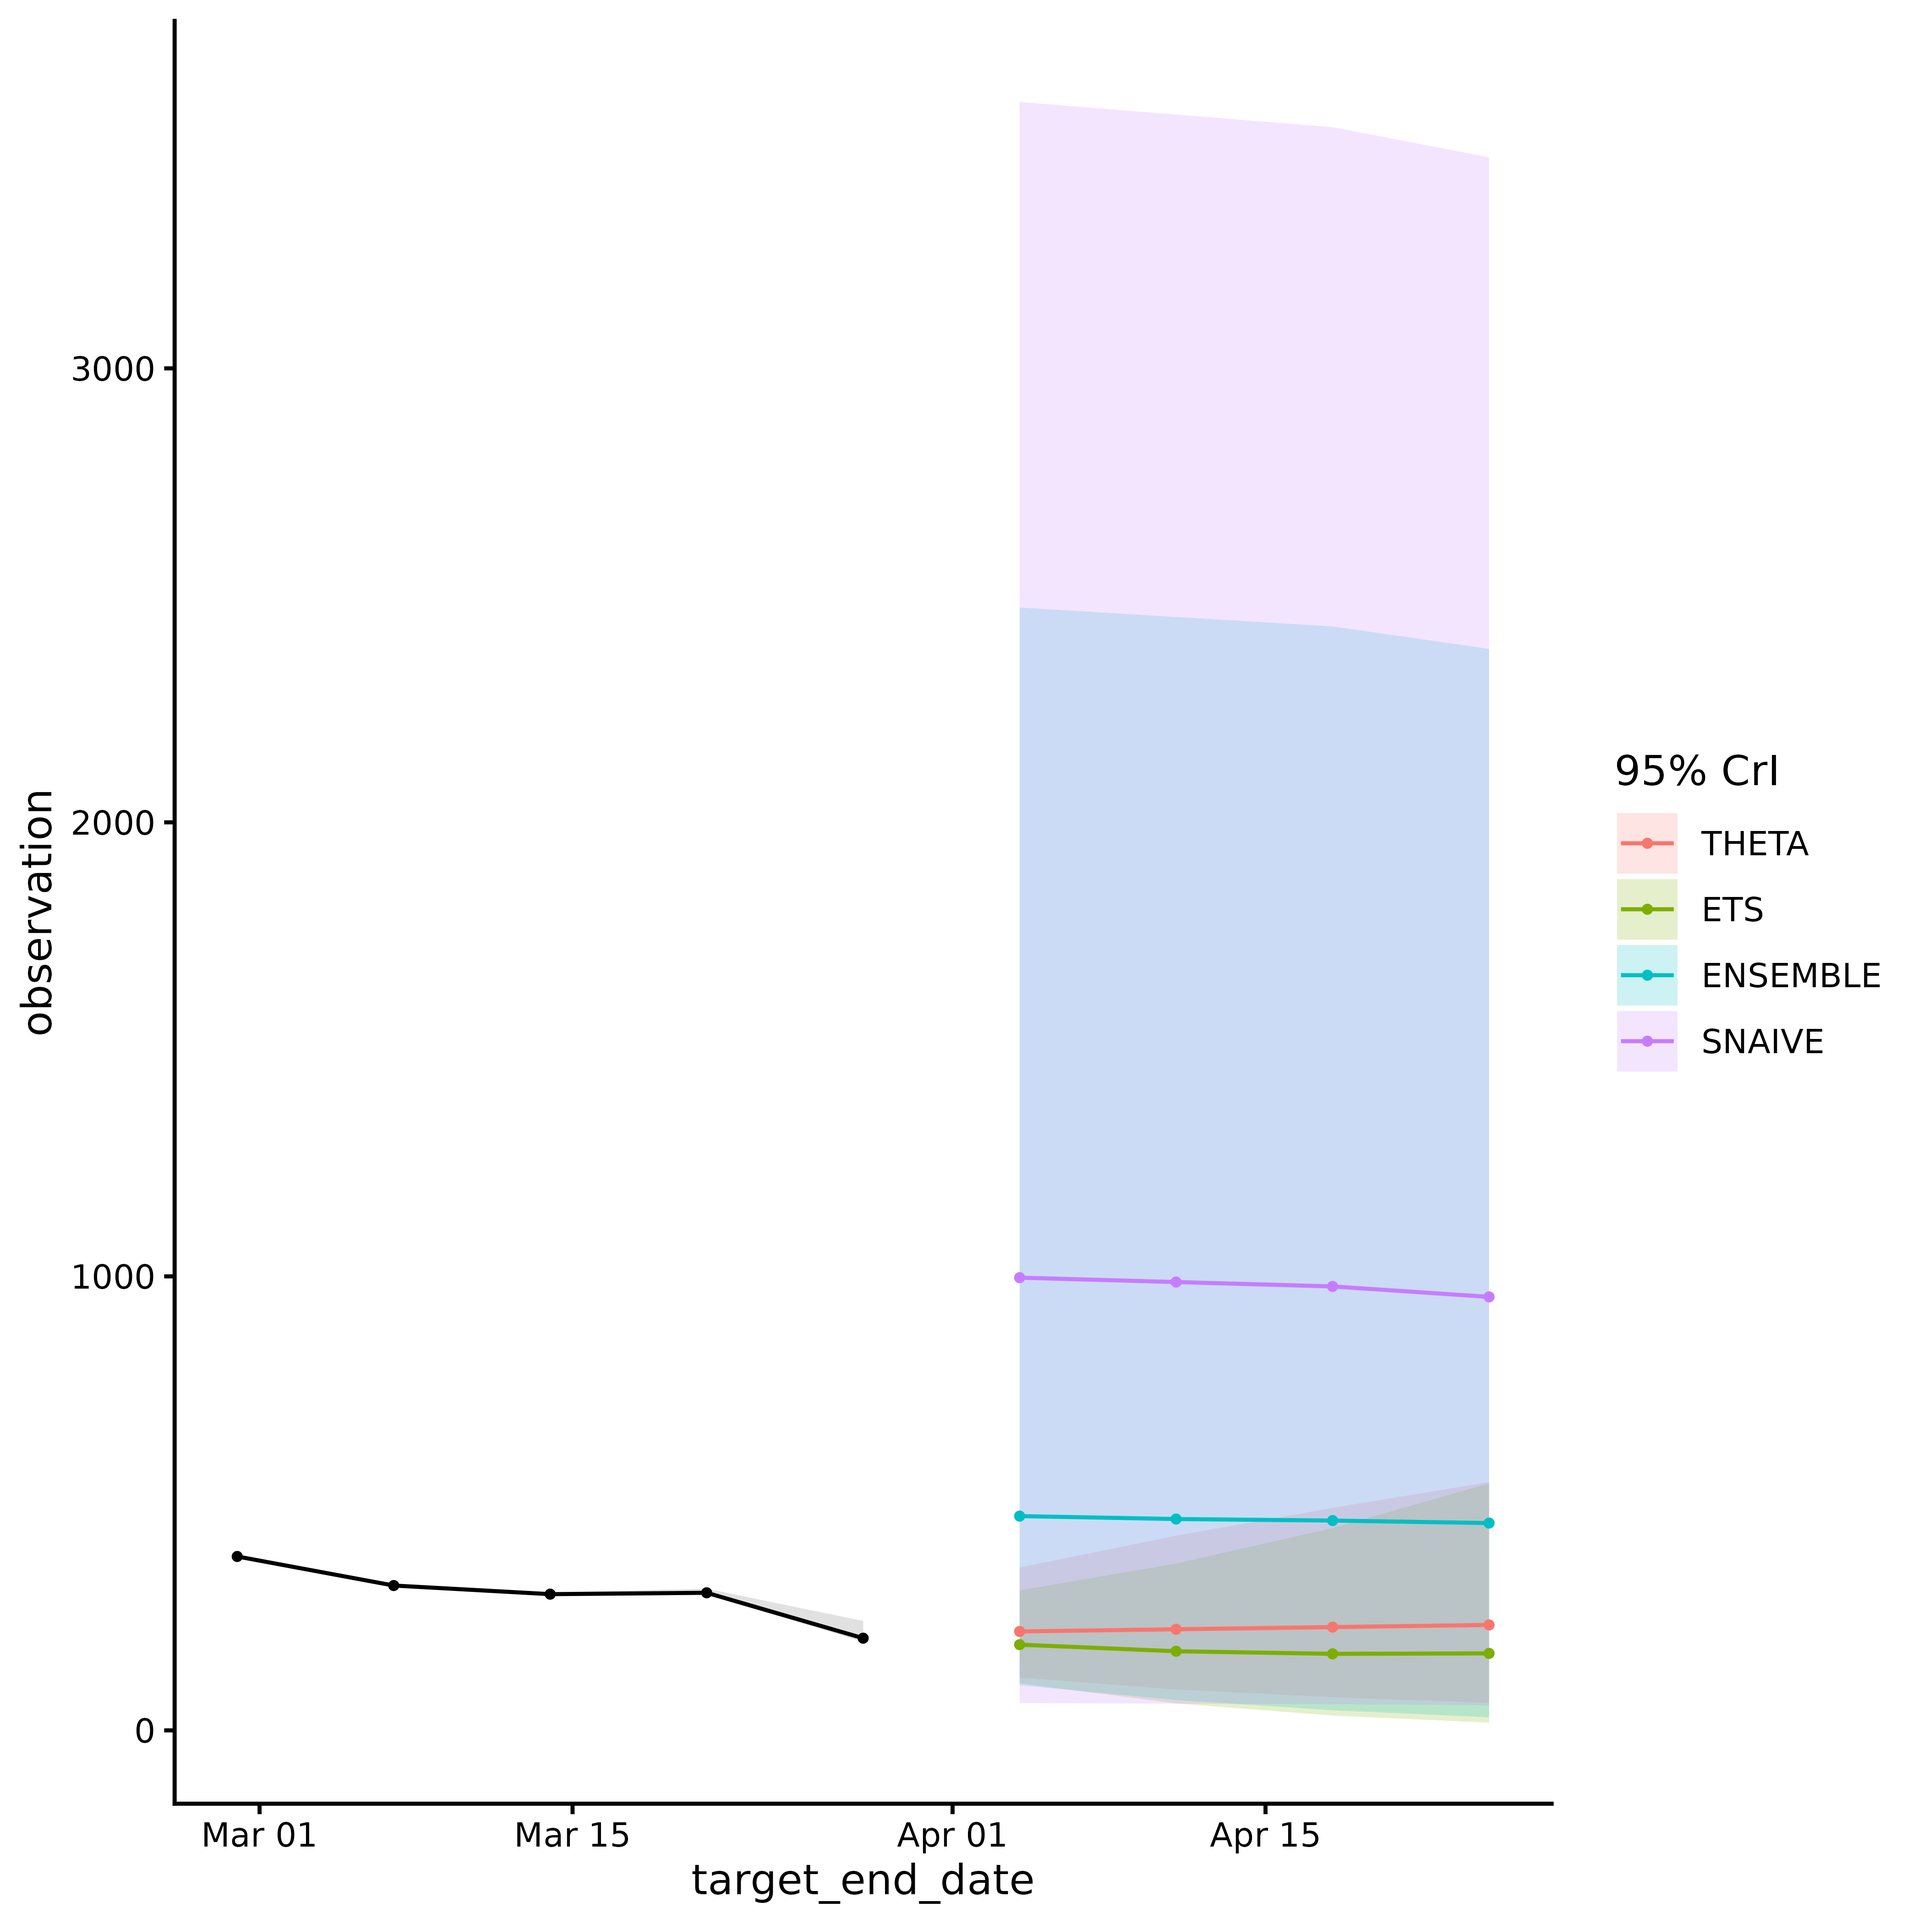
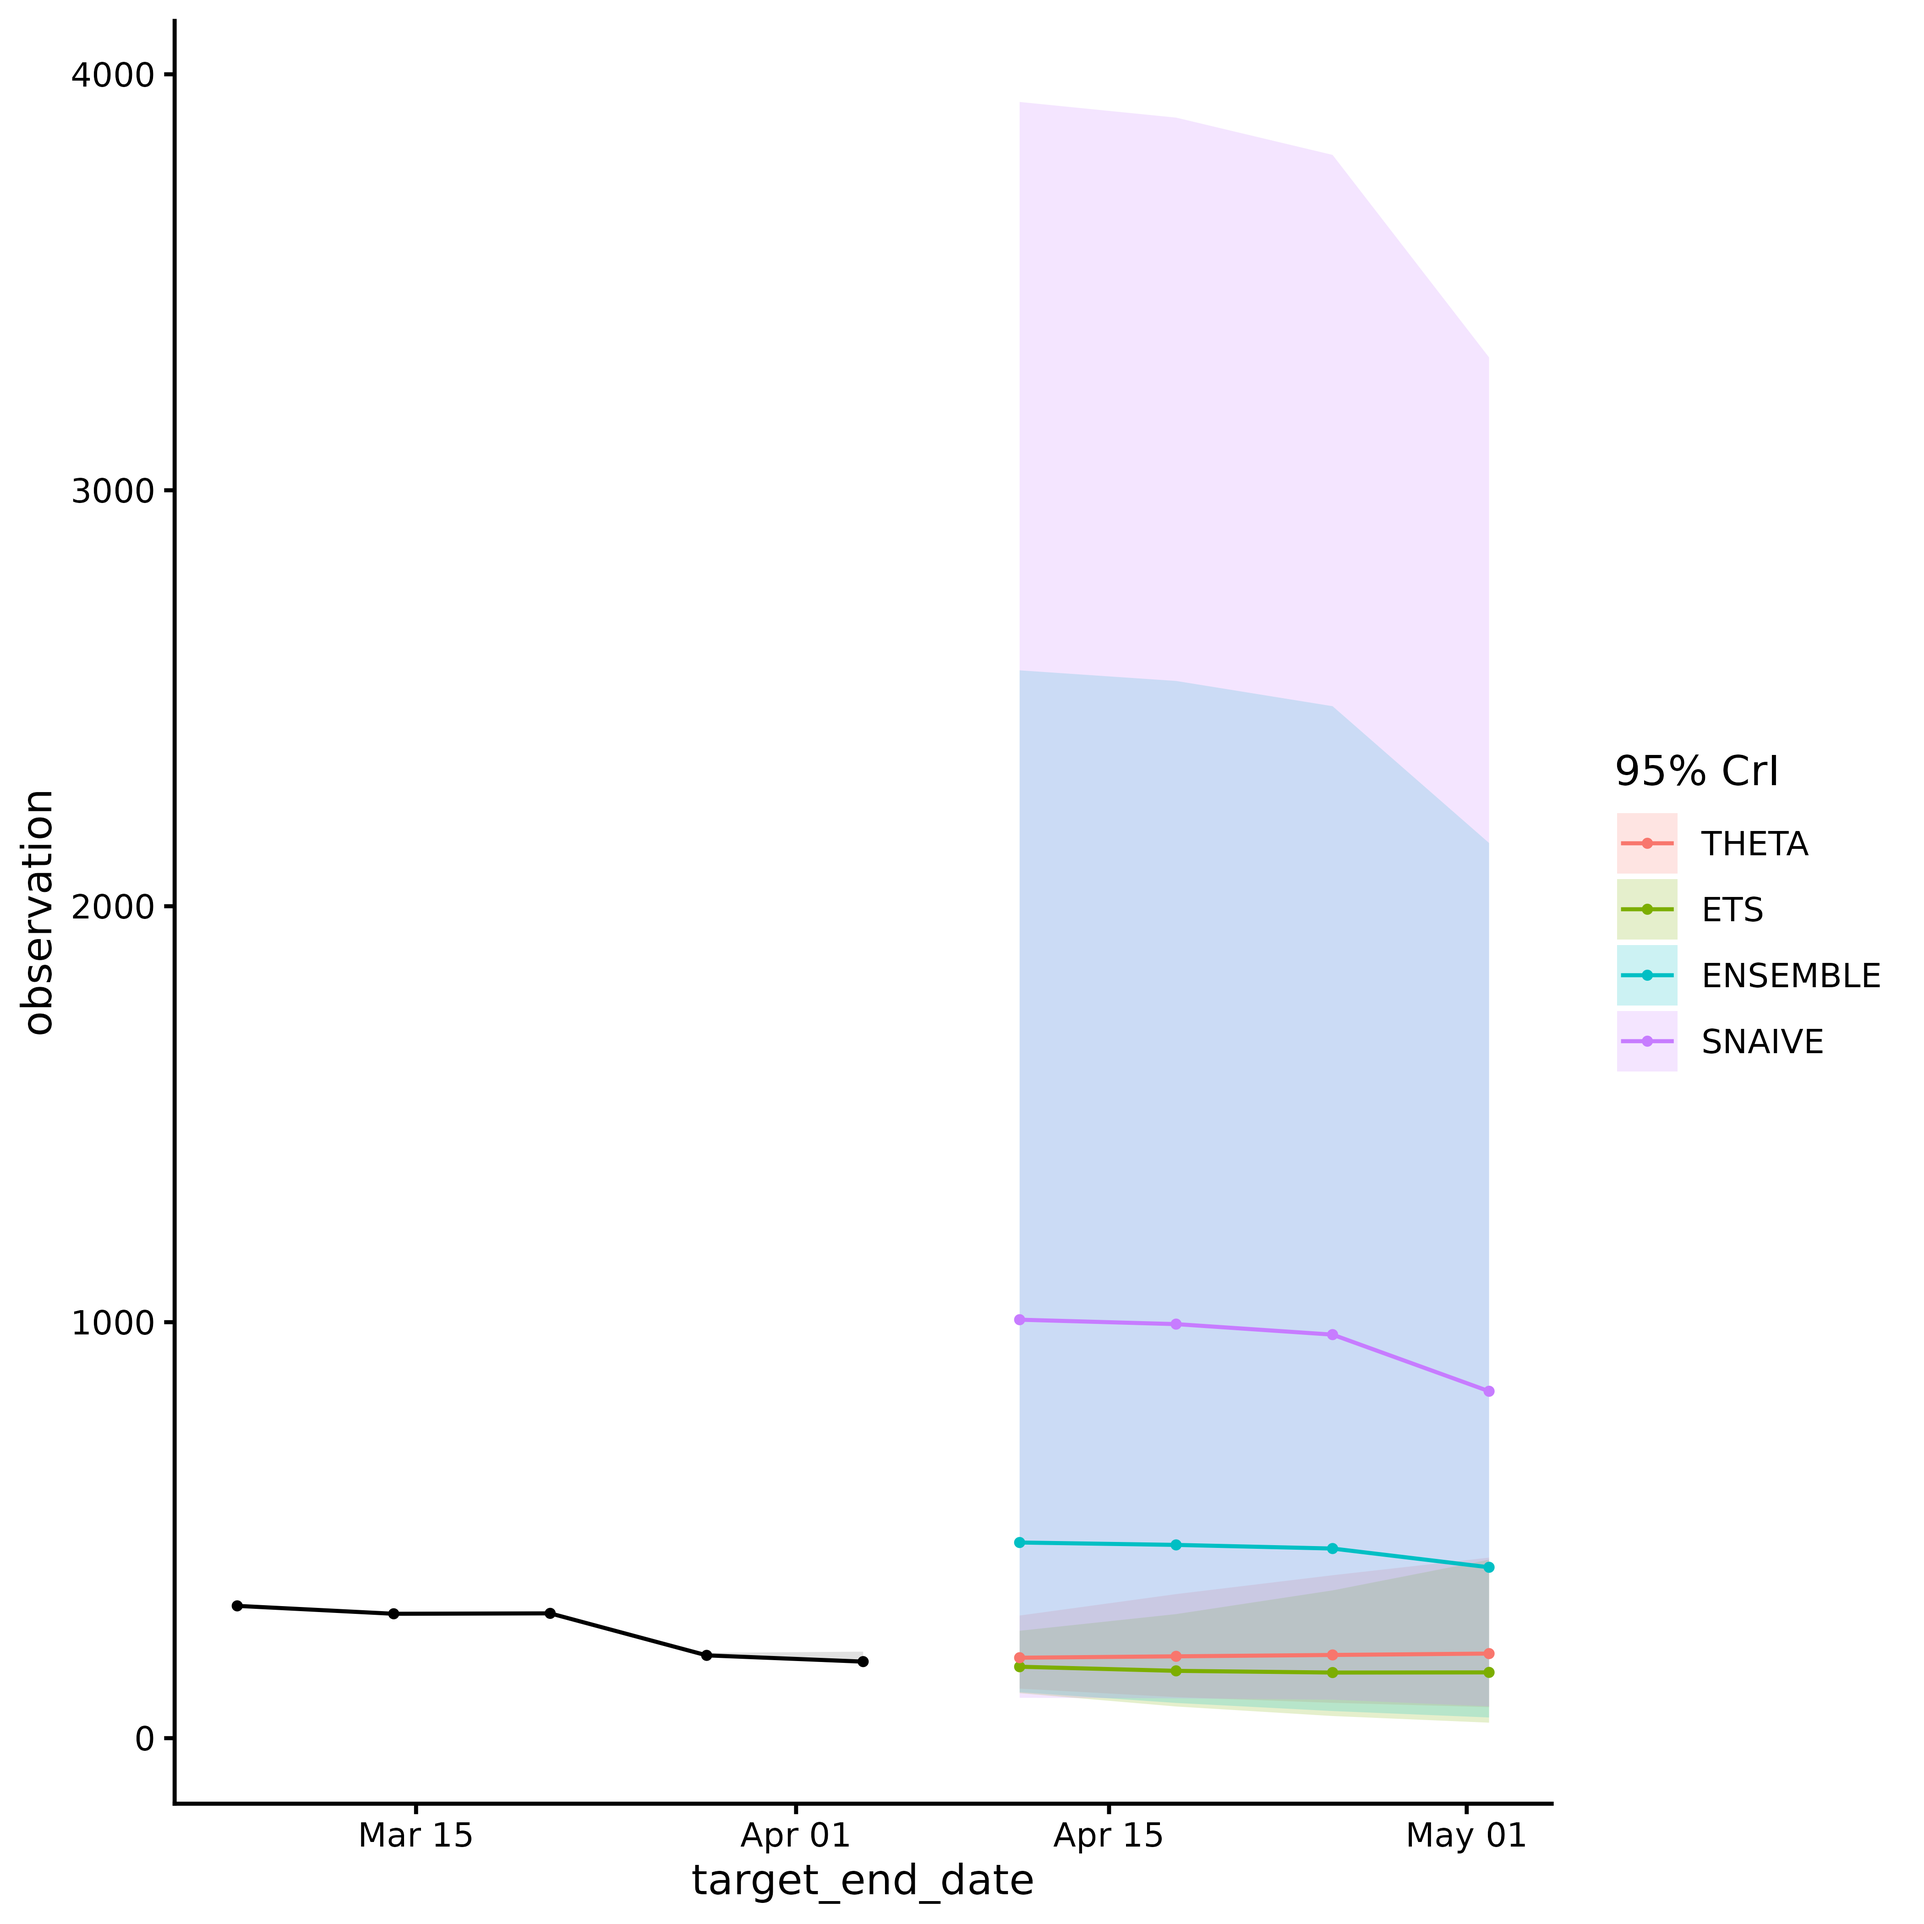
Deploying to gh-pages from @ ACCIDDA/acciddasuite@55316cc5482077a08620b14eec33b5140d28e003 🚀

diff --git a/articles/acciddasuite.html b/articles/acciddasuite.html
@@ -118,8 +118,8 @@ object:</p>
 <span><span class="co">#&gt; </span></span>
 <span><span class="co">#&gt; Location: NY </span></span>
 <span><span class="co">#&gt; Target:   wk inc covid hosp </span></span>
-<span><span class="co">#&gt; Window:   2020-08-08 to 2026-03-28 ( 295 dates )</span></span>
-<span><span class="co">#&gt; History:  TRUE ( 2024-11-17 to 2026-03-29 )</span></span></code></pre></div>
+<span><span class="co">#&gt; Window:   2020-08-08 to 2026-04-04 ( 296 dates )</span></span>
+<span><span class="co">#&gt; History:  TRUE ( 2024-11-17 to 2026-04-05 )</span></span></code></pre></div>
 <p>You can also <strong>bring your own data</strong>. Just pass it
 through <code><a href="../reference/check_data.html">check_data()</a></code>. See
 <code><a href="../articles/external_data.html">vignette("external_data")</a></code> for formatting details.</p>
@@ -140,9 +140,9 @@ before that is left untouched.</p>
 <span><span class="va">ncast</span></span>
 <span><span class="co">#&gt; &lt;accidda_ncast&gt;</span></span>
 <span><span class="co">#&gt; </span></span>
-<span><span class="co">#&gt; Nowcasted 4 weeks: 2026-03-07 to 2026-03-28 </span></span>
+<span><span class="co">#&gt; Nowcasted 4 weeks: 2026-03-14 to 2026-04-04 </span></span>
 <span><span class="co">#&gt; </span></span>
-<span><span class="co">#&gt; $data  corrected series (295 rows)</span></span>
+<span><span class="co">#&gt; $data  corrected series (296 rows)</span></span>
 <span><span class="co">#&gt; $plot  nowcast visualisation</span></span></code></pre></div>
 <div class="sourceCode" id="cb3"><pre class="downlit sourceCode r">
 <code class="sourceCode R"><span><span class="va">ncast</span><span class="op">$</span><span class="va">plot</span></span></code></pre></div>
@@ -204,14 +204,14 @@ selection and forecasting steps take.</p>
 <span><span class="co">#&gt; Models evaluated:</span></span>
 <span><span class="co">#&gt;  model_id       wis</span></span>
 <span><span class="co">#&gt;    &lt;char&gt;     &lt;num&gt;</span></span>
-<span><span class="co">#&gt;     THETA  39.34596</span></span>
-<span><span class="co">#&gt;       ETS  77.55883</span></span>
-<span><span class="co">#&gt;  ENSEMBLE  94.74694</span></span>
-<span><span class="co">#&gt;    SNAIVE 245.41487</span></span>
+<span><span class="co">#&gt;     THETA  52.41830</span></span>
+<span><span class="co">#&gt;       ETS  70.90664</span></span>
+<span><span class="co">#&gt;  ENSEMBLE 105.85928</span></span>
+<span><span class="co">#&gt;    SNAIVE 290.82444</span></span>
 <span><span class="co">#&gt; </span></span>
 <span><span class="co">#&gt; Forecast horizon:</span></span>
-<span><span class="co">#&gt;   From: 2026-02-28 </span></span>
-<span><span class="co">#&gt;   To:   2026-04-25 </span></span>
+<span><span class="co">#&gt;   From: 2026-03-07 </span></span>
+<span><span class="co">#&gt;   To:   2026-05-02 </span></span>
 <span><span class="co">#&gt; </span></span>
 <span><span class="co">#&gt; Contents:</span></span>
 <span><span class="co">#&gt;   $hubcast   hub forecast object</span></span>
@@ -227,16 +227,16 @@ the object:</p>
 <span><span class="co">#&gt; Key: &lt;model_id&gt;</span></span>
 <span><span class="co">#&gt;    model_id       wis interval_coverage_50 interval_coverage_95</span></span>
 <span><span class="co">#&gt;      &lt;char&gt;     &lt;num&gt;                &lt;num&gt;                &lt;num&gt;</span></span>
-<span><span class="co">#&gt; 1:    THETA  39.34596                 1.00                    1</span></span>
-<span><span class="co">#&gt; 2:      ETS  77.55883                 0.25                    1</span></span>
-<span><span class="co">#&gt; 3: ENSEMBLE  94.74694                 0.25                    1</span></span>
-<span><span class="co">#&gt; 4:   SNAIVE 245.41487                 0.00                    1</span></span>
+<span><span class="co">#&gt; 1:    THETA  52.41830                 0.25                    1</span></span>
+<span><span class="co">#&gt; 2:      ETS  70.90664                 0.00                    1</span></span>
+<span><span class="co">#&gt; 3: ENSEMBLE 105.85928                 0.00                    1</span></span>
+<span><span class="co">#&gt; 4:   SNAIVE 290.82444                 0.00                    1</span></span>
 <span><span class="co">#&gt;    wis_relative_skill</span></span>
 <span><span class="co">#&gt;                 &lt;num&gt;</span></span>
-<span><span class="co">#&gt; 1:          0.4286973</span></span>
-<span><span class="co">#&gt; 2:          0.8450490</span></span>
-<span><span class="co">#&gt; 3:          1.0323235</span></span>
-<span><span class="co">#&gt; 4:          2.6739391</span></span></code></pre></div>
+<span><span class="co">#&gt; 1:          0.5068163</span></span>
+<span><span class="co">#&gt; 2:          0.6855742</span></span>
+<span><span class="co">#&gt; 3:          1.0235204</span></span>
+<span><span class="co">#&gt; 4:          2.8118909</span></span></code></pre></div>
 <div class="section level3">
 <h3 id="adding-custom-models">Adding custom models<a class="anchor" aria-label="anchor" href="#adding-custom-models"></a>
 </h3>
@@ -265,8 +265,8 @@ be passed via <code>extra_models</code>:</p>
 <code class="sourceCode R"><span><span class="fu">pipetime</span><span class="fu">::</span><span class="fu"><a href="https://rdrr.io/pkg/pipetime/man/get_log.html" class="external-link">get_log</a></span><span class="op">(</span><span class="op">)</span></span>
 <span><span class="co">#&gt; $log</span></span>
 <span><span class="co">#&gt;             timestamp       label duration unit</span></span>
-<span><span class="co">#&gt; 1 2026-04-07 18:45:06  base fcast 18.03962 secs</span></span>
-<span><span class="co">#&gt; 2 2026-04-07 18:45:28 extra fcast 23.81729 secs</span></span></code></pre></div>
+<span><span class="co">#&gt; 1 2026-04-17 14:33:35  base fcast 15.17291 secs</span></span>
+<span><span class="co">#&gt; 2 2026-04-17 14:33:53 extra fcast 21.63227 secs</span></span></code></pre></div>
 </div>
 </div>
 <div class="section level2">

diff --git a/reference/get_data.html b/reference/get_data.html
@@ -95,7 +95,7 @@ which is needed by <code><a href="get_ncast.html">get_ncast</a></code>.</p>
 <span class="r-out co"><span class="r-pr">#&gt;</span> </span>
 <span class="r-out co"><span class="r-pr">#&gt;</span> Location: NY </span>
 <span class="r-out co"><span class="r-pr">#&gt;</span> Target:   wk inc covid hosp </span>
-<span class="r-out co"><span class="r-pr">#&gt;</span> Window:   2020-08-08 to 2026-03-28 ( 295 dates )</span>
+<span class="r-out co"><span class="r-pr">#&gt;</span> Window:   2020-08-08 to 2026-04-04 ( 296 dates )</span>
 <span class="r-out co"><span class="r-pr">#&gt;</span> History:  FALSE</span>
 <span class="r-in"><span></span></span>
 <span class="r-in"><span><span class="co"># Fetch revision history for nowcasting</span></span></span>
@@ -104,8 +104,8 @@ which is needed by <code><a href="get_ncast.html">get_ncast</a></code>.</p>
 <span class="r-out co"><span class="r-pr">#&gt;</span> </span>
 <span class="r-out co"><span class="r-pr">#&gt;</span> Location: CA </span>
 <span class="r-out co"><span class="r-pr">#&gt;</span> Target:   wk inc covid hosp </span>
-<span class="r-out co"><span class="r-pr">#&gt;</span> Window:   2020-08-08 to 2026-03-28 ( 295 dates )</span>
-<span class="r-out co"><span class="r-pr">#&gt;</span> History:  TRUE ( 2024-11-17 to 2026-03-29 )</span>
+<span class="r-out co"><span class="r-pr">#&gt;</span> Window:   2020-08-08 to 2026-04-04 ( 296 dates )</span>
+<span class="r-out co"><span class="r-pr">#&gt;</span> History:  TRUE ( 2024-11-17 to 2026-04-05 )</span>
 </code></pre></div>
     </div>
   </main><aside class="col-md-3"><nav id="toc" aria-label="Table of contents"><h2>On this page</h2>

diff --git a/articles/acciddasuite.md b/articles/acciddasuite.md
@@ -48,8 +48,8 @@ df
 #> 
 #> Location: NY 
 #> Target:   wk inc covid hosp 
-#> Window:   2020-08-08 to 2026-03-28 ( 295 dates )
-#> History:  TRUE ( 2024-11-17 to 2026-03-29 )
+#> Window:   2020-08-08 to 2026-04-04 ( 296 dates )
+#> History:  TRUE ( 2024-11-17 to 2026-04-05 )
 ```
 
 You can also **bring your own data**. Just pass it through
@@ -75,9 +75,9 @@ ncast <- get_ncast(df)
 ncast
 #> <accidda_ncast>
 #> 
-#> Nowcasted 4 weeks: 2026-03-07 to 2026-03-28 
+#> Nowcasted 4 weeks: 2026-03-14 to 2026-04-04 
 #> 
-#> $data  corrected series (295 rows)
+#> $data  corrected series (296 rows)
 #> $plot  nowcast visualisation
 ```
 
@@ -147,14 +147,14 @@ fcast
 #> Models evaluated:
 #>  model_id       wis
 #>    <char>     <num>
-#>     THETA  39.34596
-#>       ETS  77.55883
-#>  ENSEMBLE  94.74694
-#>    SNAIVE 245.41487
+#>     THETA  52.41830
+#>       ETS  70.90664
+#>  ENSEMBLE 105.85928
+#>    SNAIVE 290.82444
 #> 
 #> Forecast horizon:
-#>   From: 2026-02-28 
-#>   To:   2026-04-25 
+#>   From: 2026-03-07 
+#>   To:   2026-05-02 
 #> 
 #> Contents:
 #>   $hubcast   hub forecast object
@@ -175,16 +175,16 @@ fcast$score
 #> Key: <model_id>
 #>    model_id       wis interval_coverage_50 interval_coverage_95
 #>      <char>     <num>                <num>                <num>
-#> 1:    THETA  39.34596                 1.00                    1
-#> 2:      ETS  77.55883                 0.25                    1
-#> 3: ENSEMBLE  94.74694                 0.25                    1
-#> 4:   SNAIVE 245.41487                 0.00                    1
+#> 1:    THETA  52.41830                 0.25                    1
+#> 2:      ETS  70.90664                 0.00                    1
+#> 3: ENSEMBLE 105.85928                 0.00                    1
+#> 4:   SNAIVE 290.82444                 0.00                    1
 #>    wis_relative_skill
 #>                 <num>
-#> 1:          0.4286973
-#> 2:          0.8450490
-#> 3:          1.0323235
-#> 4:          2.6739391
+#> 1:          0.5068163
+#> 2:          0.6855742
+#> 3:          1.0235204
+#> 4:          2.8118909
 ```
 
 ### Adding custom models
@@ -218,8 +218,8 @@ You can check how long each step took by calling
 pipetime::get_log()
 #> $log
 #>             timestamp       label duration unit
-#> 1 2026-04-07 18:45:06  base fcast 18.03962 secs
-#> 2 2026-04-07 18:45:28 extra fcast 23.81729 secs
+#> 1 2026-04-17 14:33:35  base fcast 15.17291 secs
+#> 2 2026-04-17 14:33:53 extra fcast 21.63227 secs
 ```
 
 ## Submit to RespiLens

diff --git a/reference/get_data.md b/reference/get_data.md
@@ -59,7 +59,7 @@ get_data(pathogen = "covid", geo_value = "ny")
 #> 
 #> Location: NY 
 #> Target:   wk inc covid hosp 
-#> Window:   2020-08-08 to 2026-03-28 ( 295 dates )
+#> Window:   2020-08-08 to 2026-04-04 ( 296 dates )
 #> History:  FALSE
 
 # Fetch revision history for nowcasting
@@ -68,6 +68,6 @@ get_data(pathogen = "covid", geo_value = "ca", revisions = TRUE)
 #> 
 #> Location: CA 
 #> Target:   wk inc covid hosp 
-#> Window:   2020-08-08 to 2026-03-28 ( 295 dates )
-#> History:  TRUE ( 2024-11-17 to 2026-03-29 )
+#> Window:   2020-08-08 to 2026-04-04 ( 296 dates )
+#> History:  TRUE ( 2024-11-17 to 2026-04-05 )
 ```
